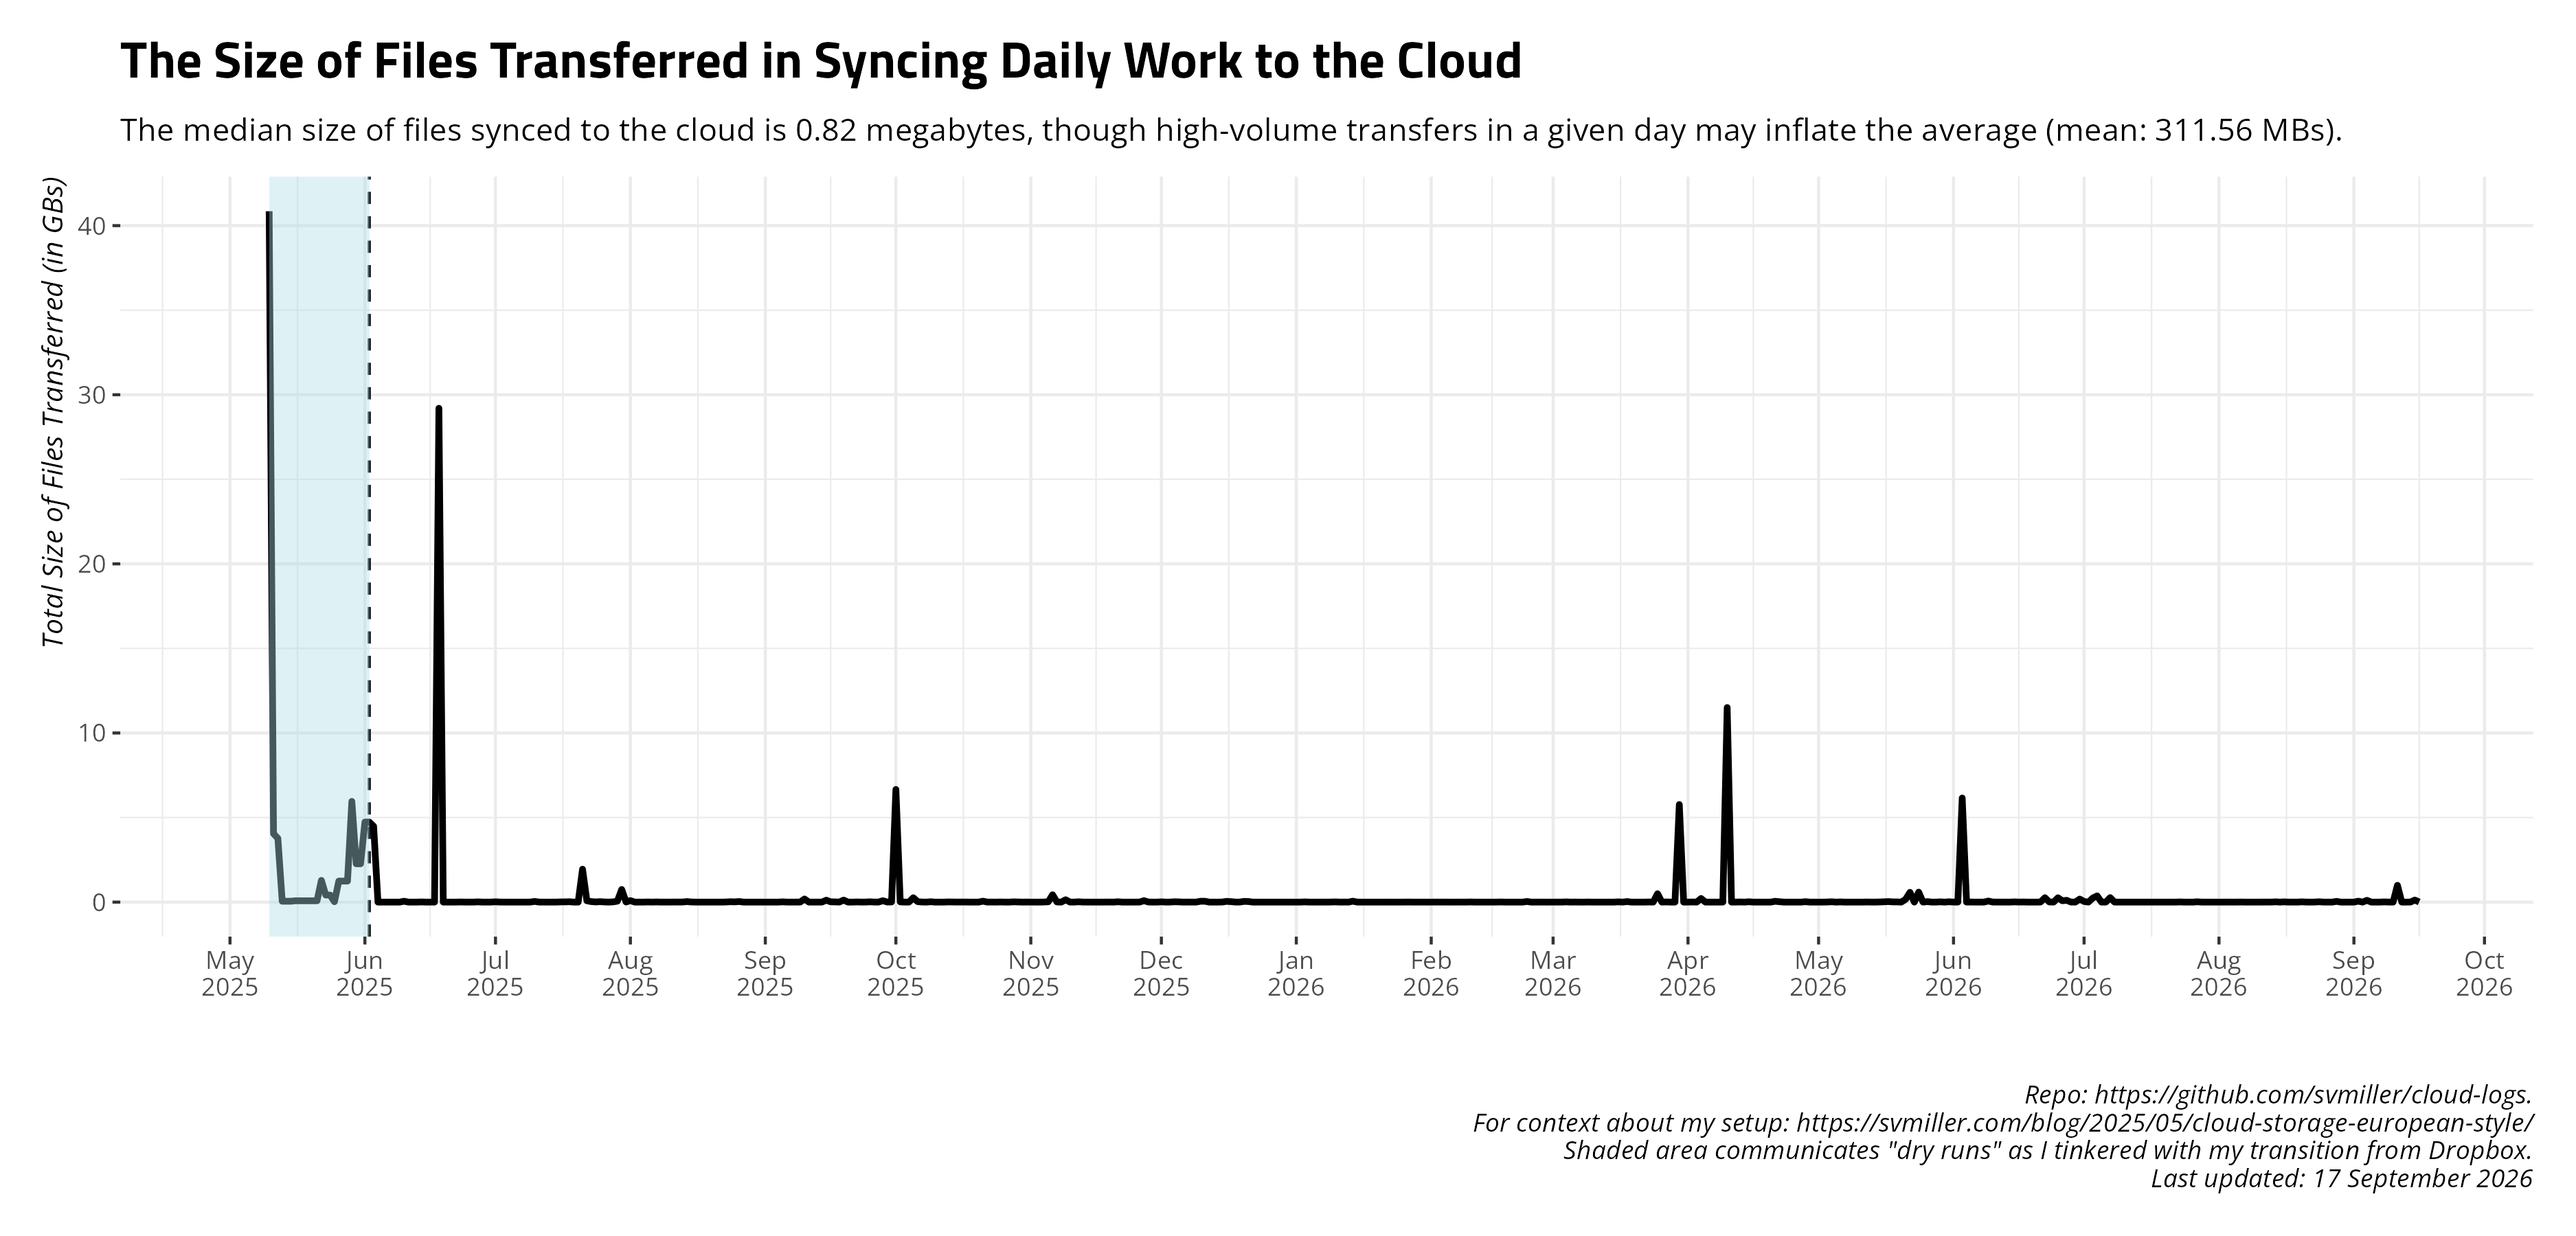
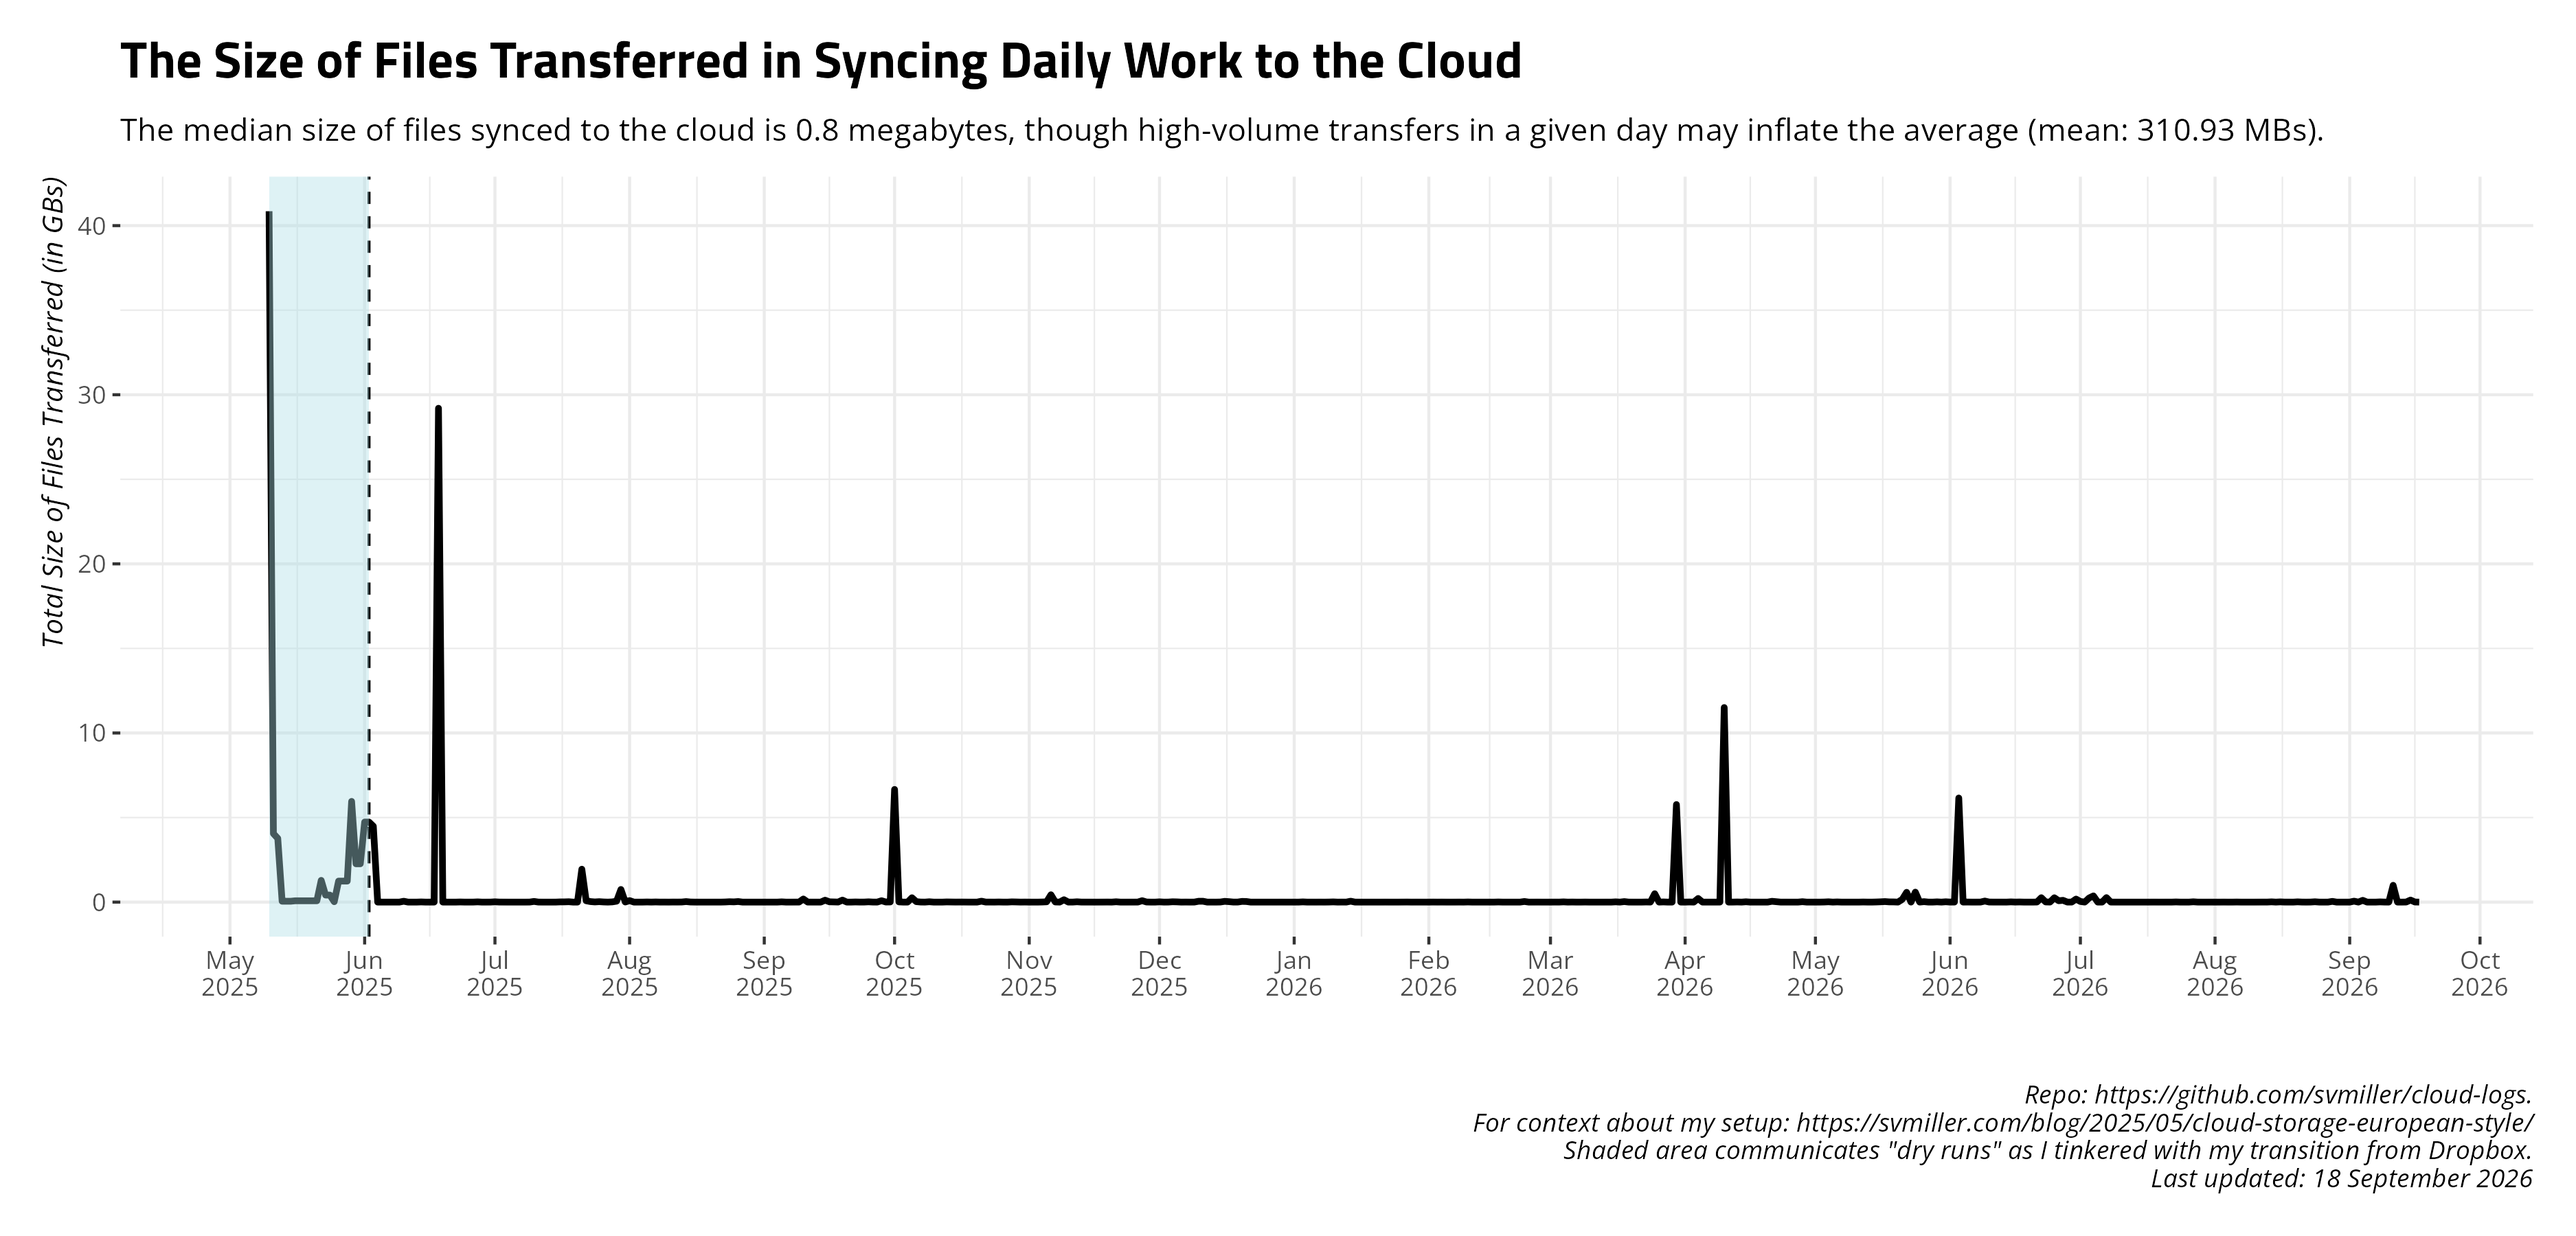
Date: 2026-09-18 09:00:33. Hi mom!

diff --git a/README.md b/README.md
@@ -27,17 +27,17 @@ and uploads to Github.
     #> # A tibble: 14 × 4
     #>    date       ftransfer stransfer    elapsed 
     #>    <date>         <dbl> <chr>        <chr>   
-    #>  1 2026-09-03         1 23.351 KiB   17m3.0s 
-    #>  2 2026-09-04        55 107.209 MiB  5m12.1s 
-    #>  3 2026-09-05         0 <NA>         8m2.0s  
-    #>  4 2026-09-06         0 <NA>         10m58.2s
-    #>  5 2026-09-07        57 153.312 KiB  12m38.3s
-    #>  6 2026-09-08        64 11.991 MiB   19m39.1s
-    #>  7 2026-09-09        53 2.356 MiB    33m50.6s
-    #>  8 2026-09-10         1 10.592 KiB   34m11.7s
-    #>  9 2026-09-11       227 1018.108 MiB 12m21.6s
-    #> 10 2026-09-12         3 24.892 KiB   8m27.8s 
-    #> 11 2026-09-13         0 <NA>         4m45.2s 
-    #> 12 2026-09-14         3 4.051 MiB    10m22.9s
-    #> 13 2026-09-15        24 124.357 MiB  31m50.0s
-    #> 14 2026-09-16       478 6.253 MiB    6m54.2s
+    #>  1 2026-09-04        55 107.209 MiB  5m12.1s 
+    #>  2 2026-09-05         0 <NA>         8m2.0s  
+    #>  3 2026-09-06         0 <NA>         10m58.2s
+    #>  4 2026-09-07        57 153.312 KiB  12m38.3s
+    #>  5 2026-09-08        64 11.991 MiB   19m39.1s
+    #>  6 2026-09-09        53 2.356 MiB    33m50.6s
+    #>  7 2026-09-10         1 10.592 KiB   34m11.7s
+    #>  8 2026-09-11       227 1018.108 MiB 12m21.6s
+    #>  9 2026-09-12         3 24.892 KiB   8m27.8s 
+    #> 10 2026-09-13         0 <NA>         4m45.2s 
+    #> 11 2026-09-14         3 4.051 MiB    10m22.9s
+    #> 12 2026-09-15        24 124.357 MiB  31m50.0s
+    #> 13 2026-09-16       478 6.253 MiB    6m54.2s 
+    #> 14 2026-09-17         0 <NA>         20m59.4s
